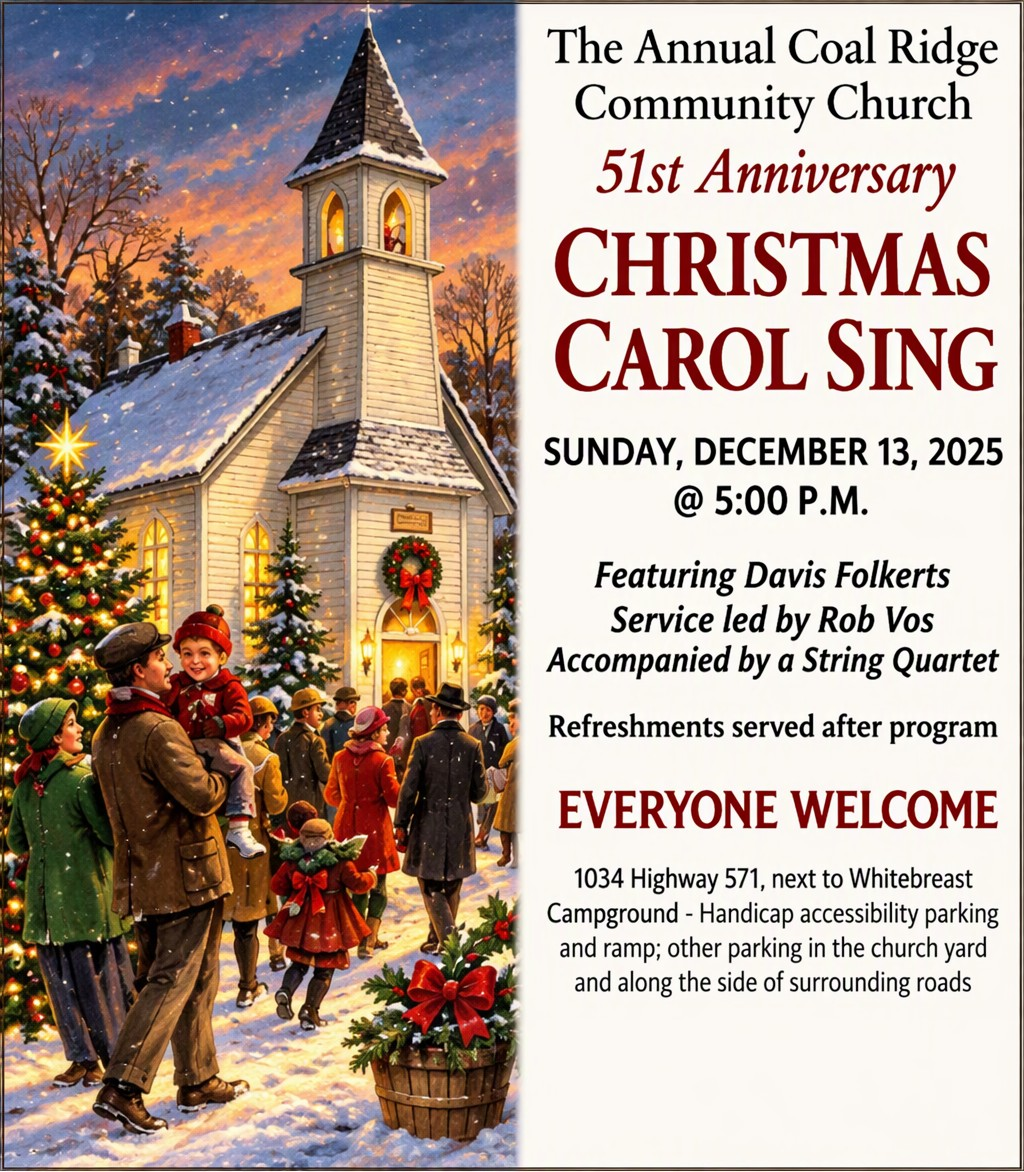
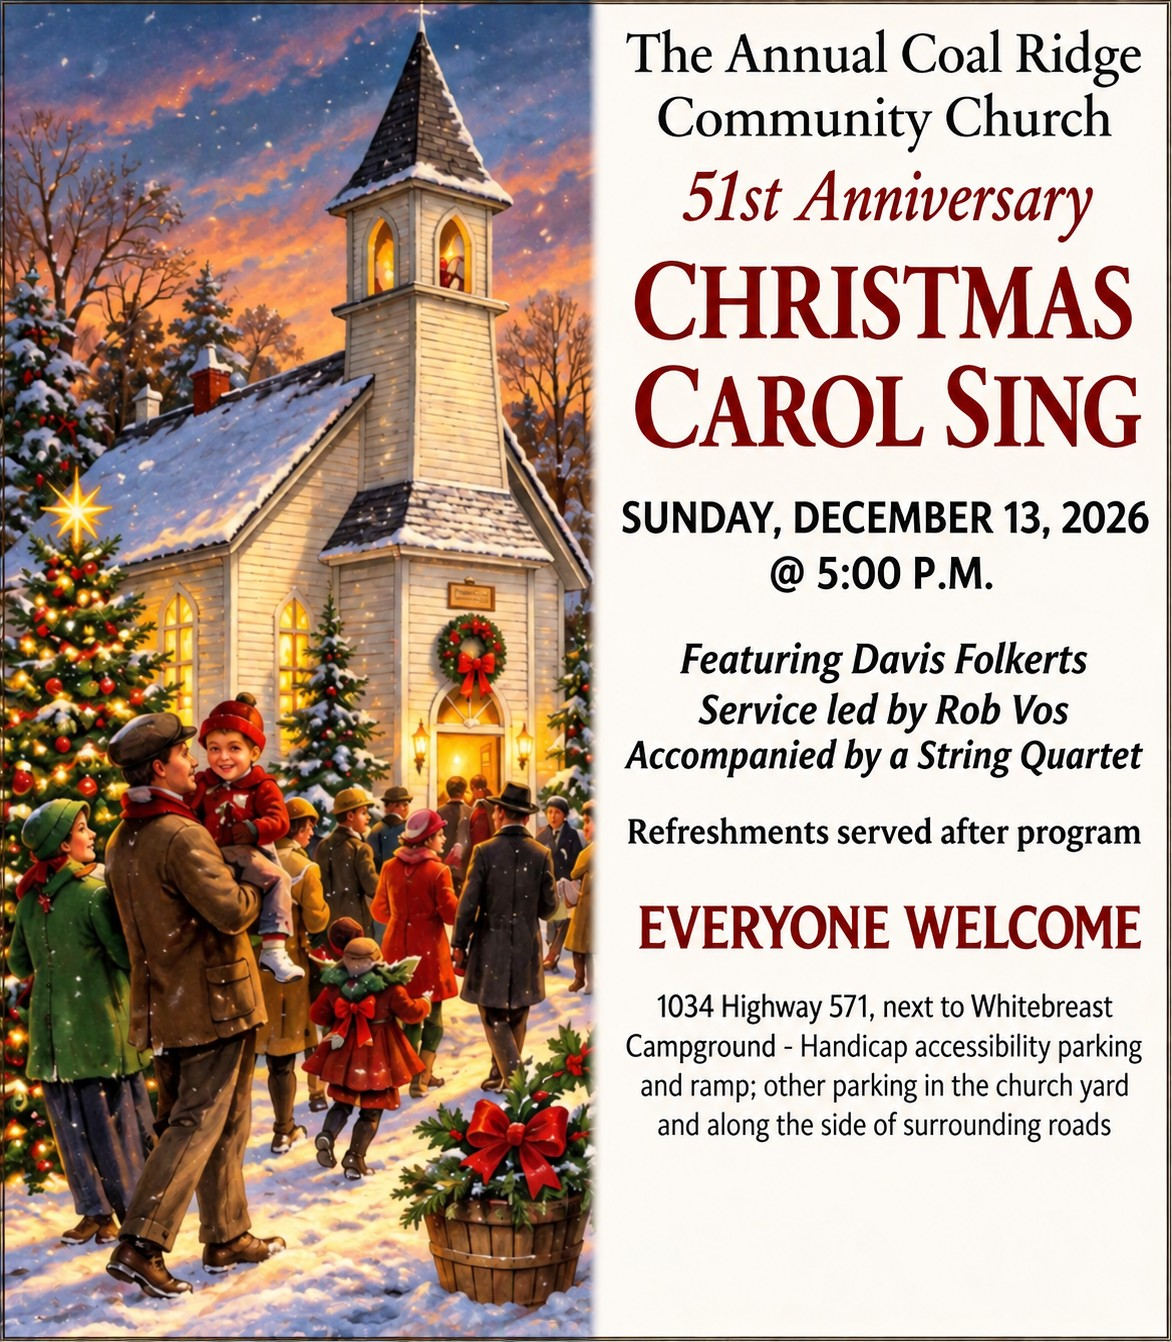
replace flyer

diff --git a/_layouts/default.html b/_layouts/default.html
@@ -106,7 +106,7 @@
         <div class="container position-relative d-flex justify-content-end pb-3">
             <a class="text-center" href="/assets/img/events/51st-christmas-carol-sing.jpg" aria-label="Special Events: view the Christmas Carol Sing flyer">
                 <h4 class="text-uppercase text-white mb-2">Special Events</h4>
-                <img class="img-fluid img-thumbnail" src="/assets/img/events/51st-christmas-carol-sing.jpg" width="180" height="206" alt="51st Anniversary Christmas Carol Sing flyer, December 13, 2025 at 5:00 PM">
+                <img class="img-fluid img-thumbnail" src="/assets/img/events/51st-christmas-carol-sing.jpg" width="180" height="206" alt="51st Anniversary Christmas Carol Sing flyer, December 13, 2026 at 5:00 PM">
             </a>
         </div>
         <!-- / .container -->
